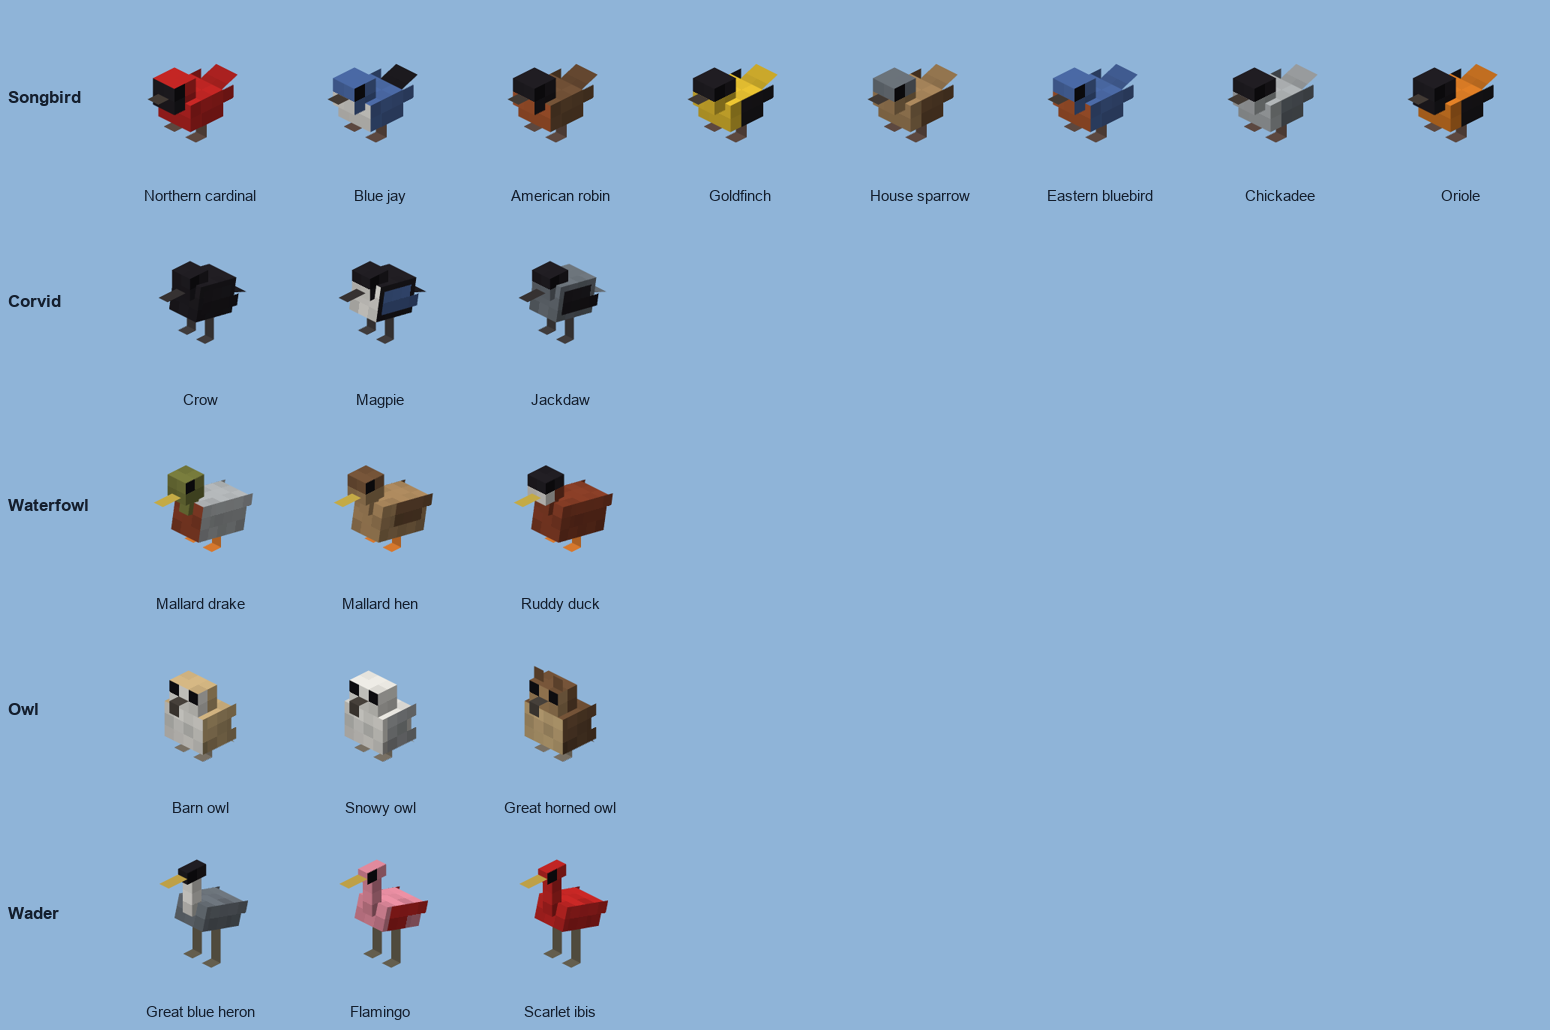
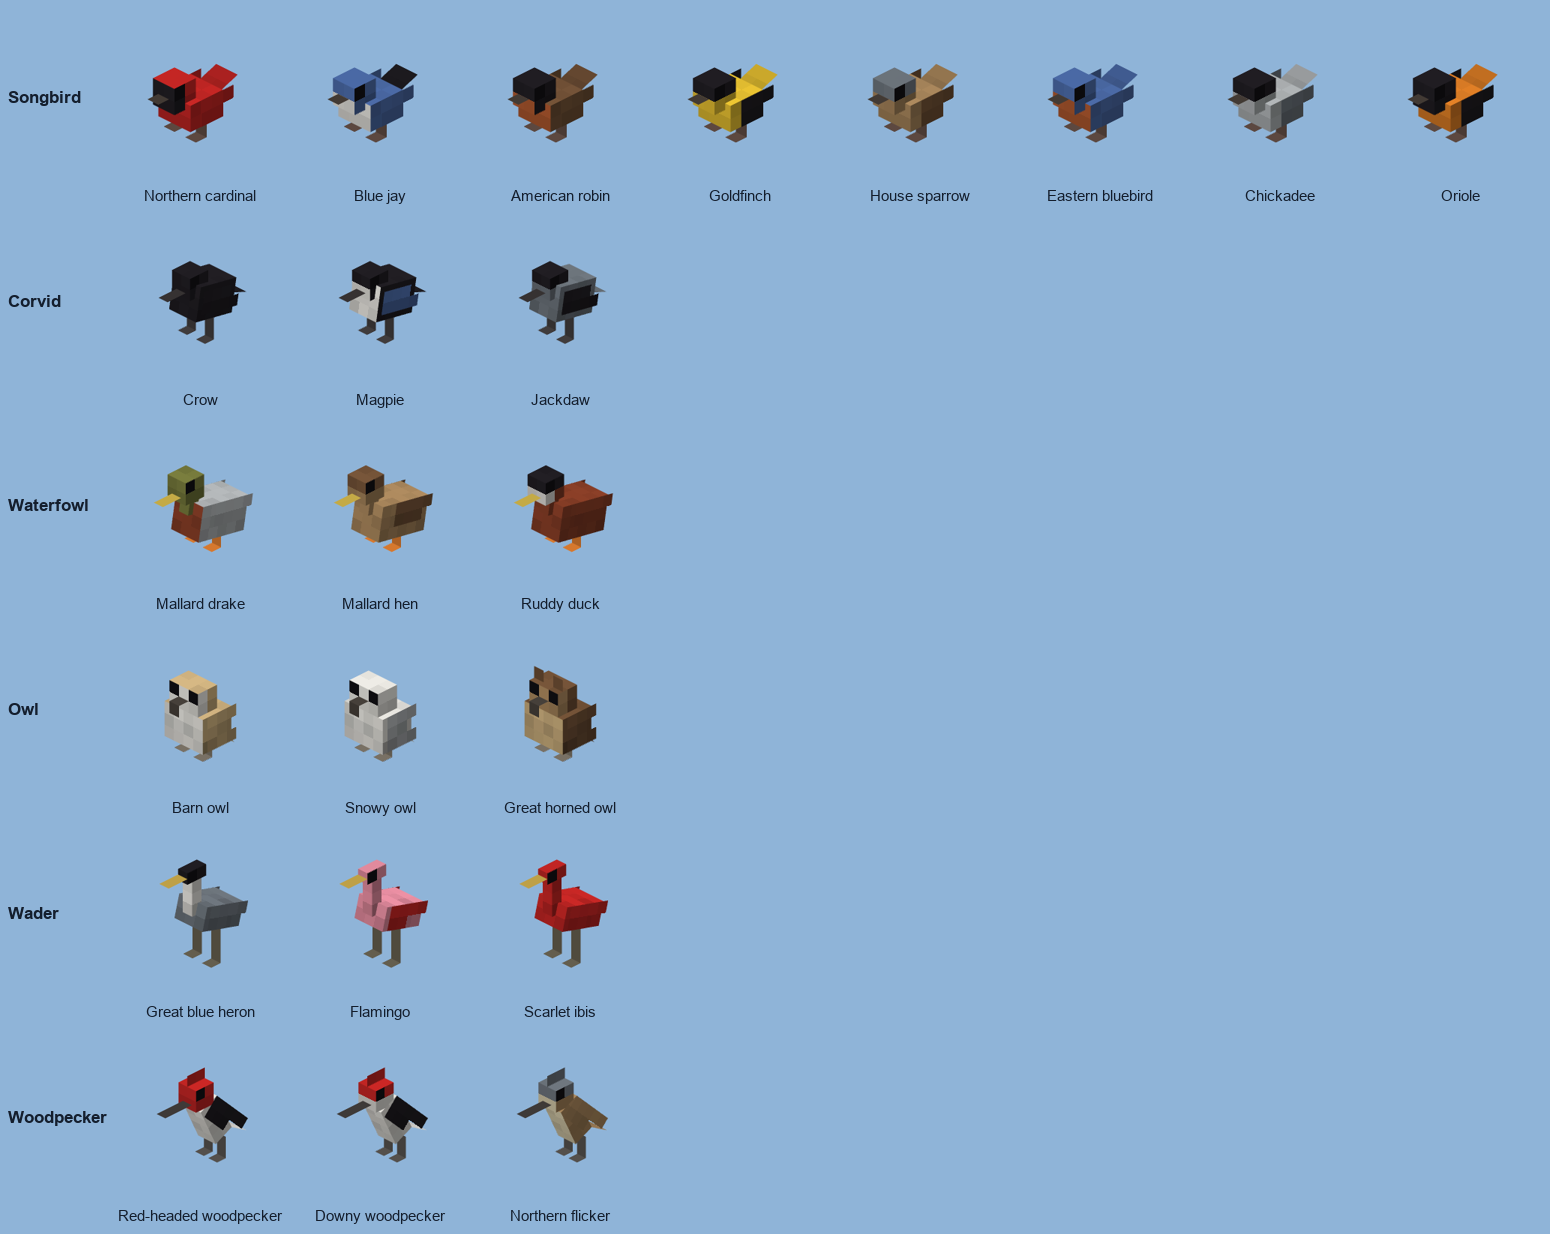
Birds: woodpecker shape (steeply tilted body, 3-long chisel beak, crest, 5/3 wings, 2-tall legs) and its presets

diff --git a/tools/birds/paint_birds.py b/tools/birds/paint_birds.py
@@ -38,6 +38,7 @@ SHAPES = {
     'owl': {'beak': (70, 64, 58), 'legs': (120, 112, 100), 'eyes': 'front', 'wing': ['###', '##.', '###']},
     'wader': {'beak': (190, 160, 70), 'legs': (100, 94, 78), 'eyes': 'side', 'wing': ['####', '##..']},
     'corvid': {'beak': (54, 50, 50), 'legs': (64, 60, 60), 'eyes': 'side', 'wing': ['###.', '####']},
+    'woodpecker': {'beak': (62, 58, 56), 'legs': (84, 80, 76), 'eyes': 'side', 'wing': ['#####', '###..']},
 }
 
 # Patterns by part role; ("head", "top") is the head's top row on its sides, ("head", "front") their front column.
@@ -74,6 +75,9 @@ PREVIEWS = {
                   'ruddy_duck': ('chestnut', [('mask', 'white'), ('cap', 'black')])},
     'owl': {'barn_owl': ('buff', [('breast', 'white'), ('mask', 'white')]), 'snowy_owl': ('white', [('wings', 'pale_grey')]),
             'great_horned_owl': ('brown', [('breast', 'buff'), ('mask', 'tan')])},
+    'woodpecker': {'red_headed_woodpecker': ('white', [('wings', 'black'), ('head', 'scarlet')]),
+                   'downy_woodpecker': ('white', [('wings', 'black'), ('cap', 'scarlet')]),
+                   'northern_flicker': ('tan', [('breast', 'cream'), ('cap', 'slate_grey')])},
     'wader': {'great_blue_heron': ('slate_grey', [('head', 'white'), ('cap', 'black')]),
               'flamingo': ('pink', [('wings', 'scarlet')]), 'scarlet_ibis': ('scarlet', [('tail', 'black')])},
 }
